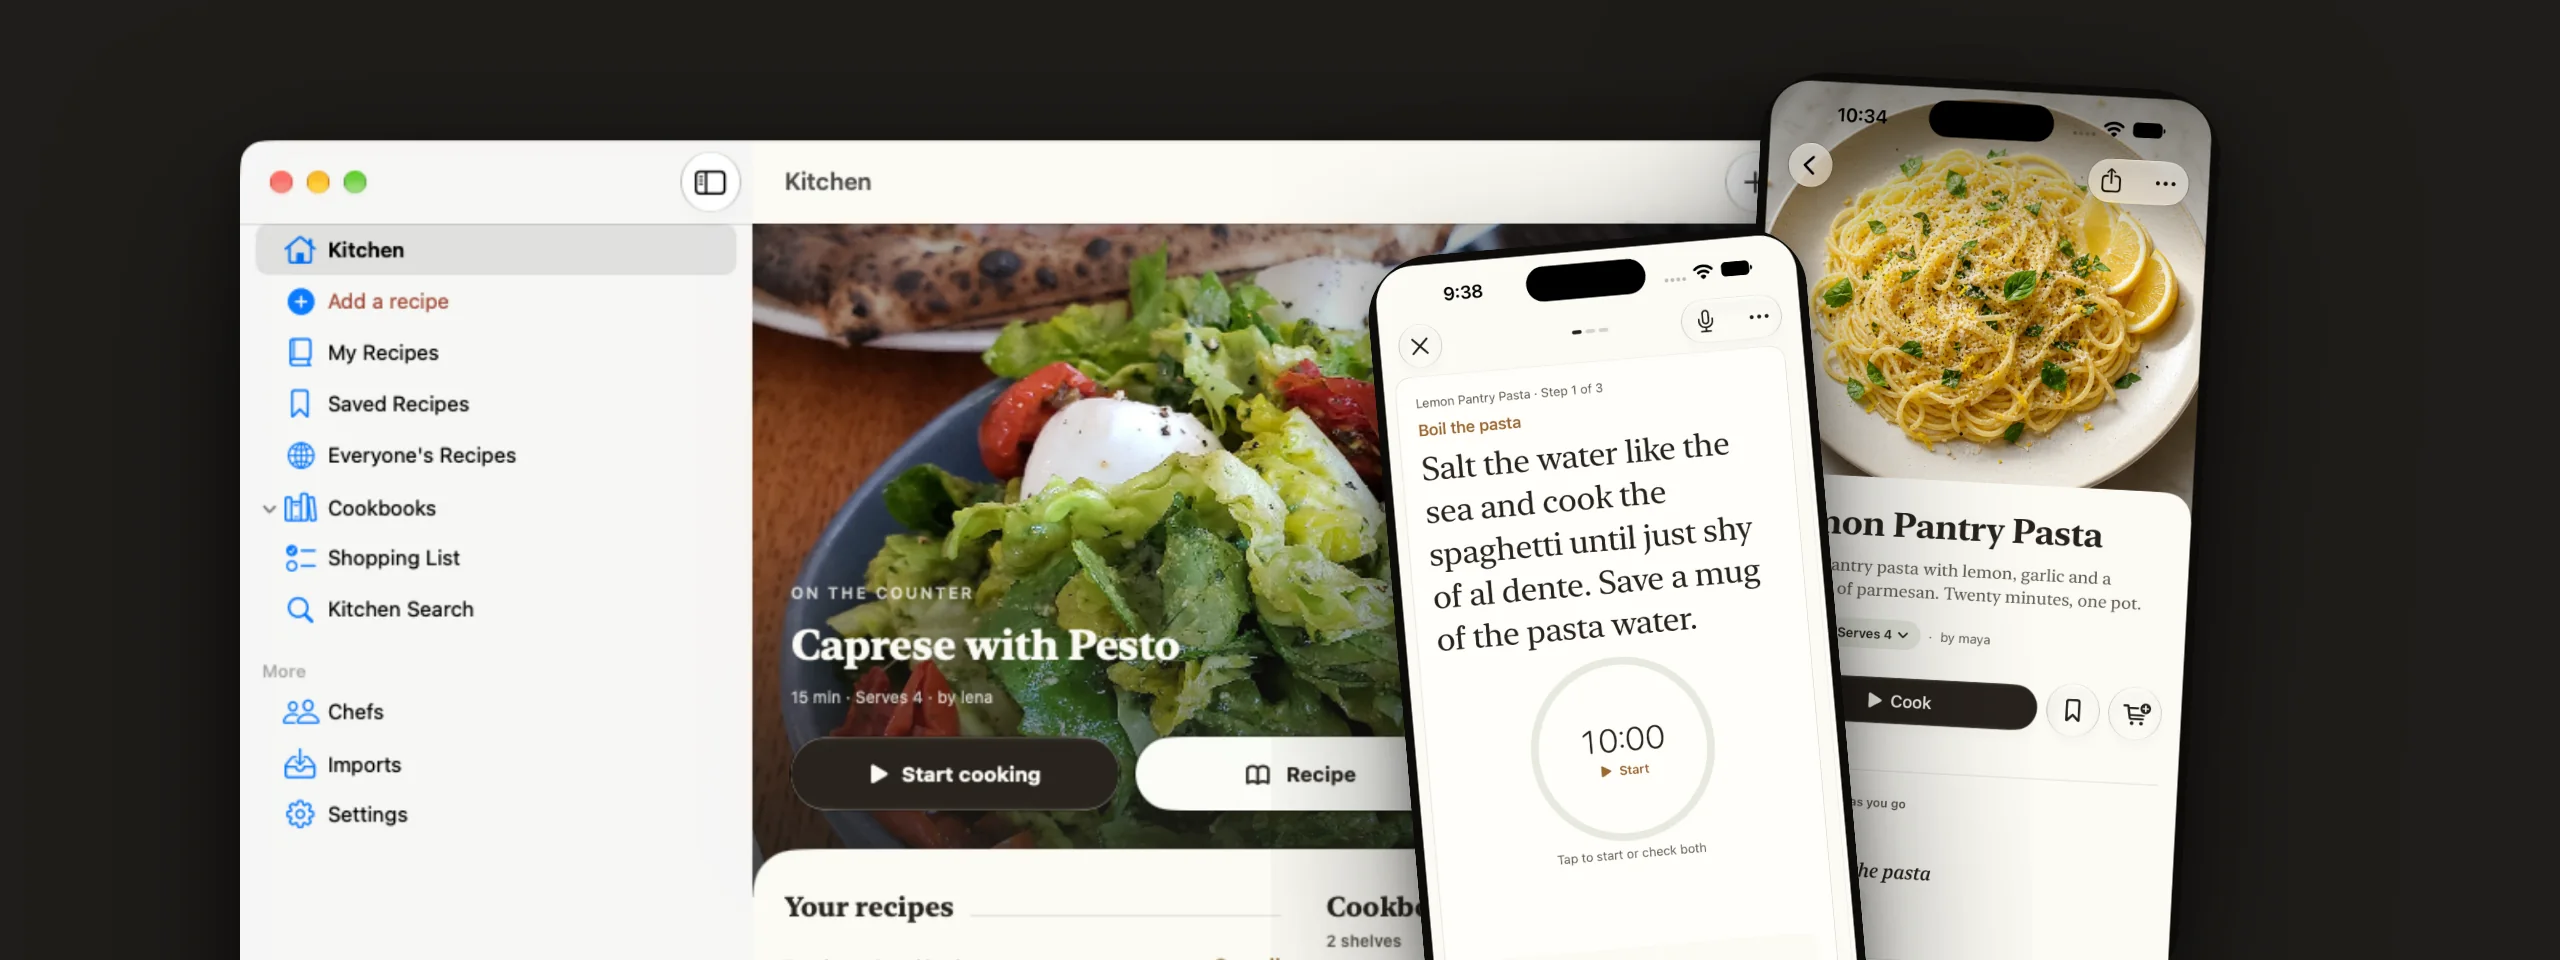
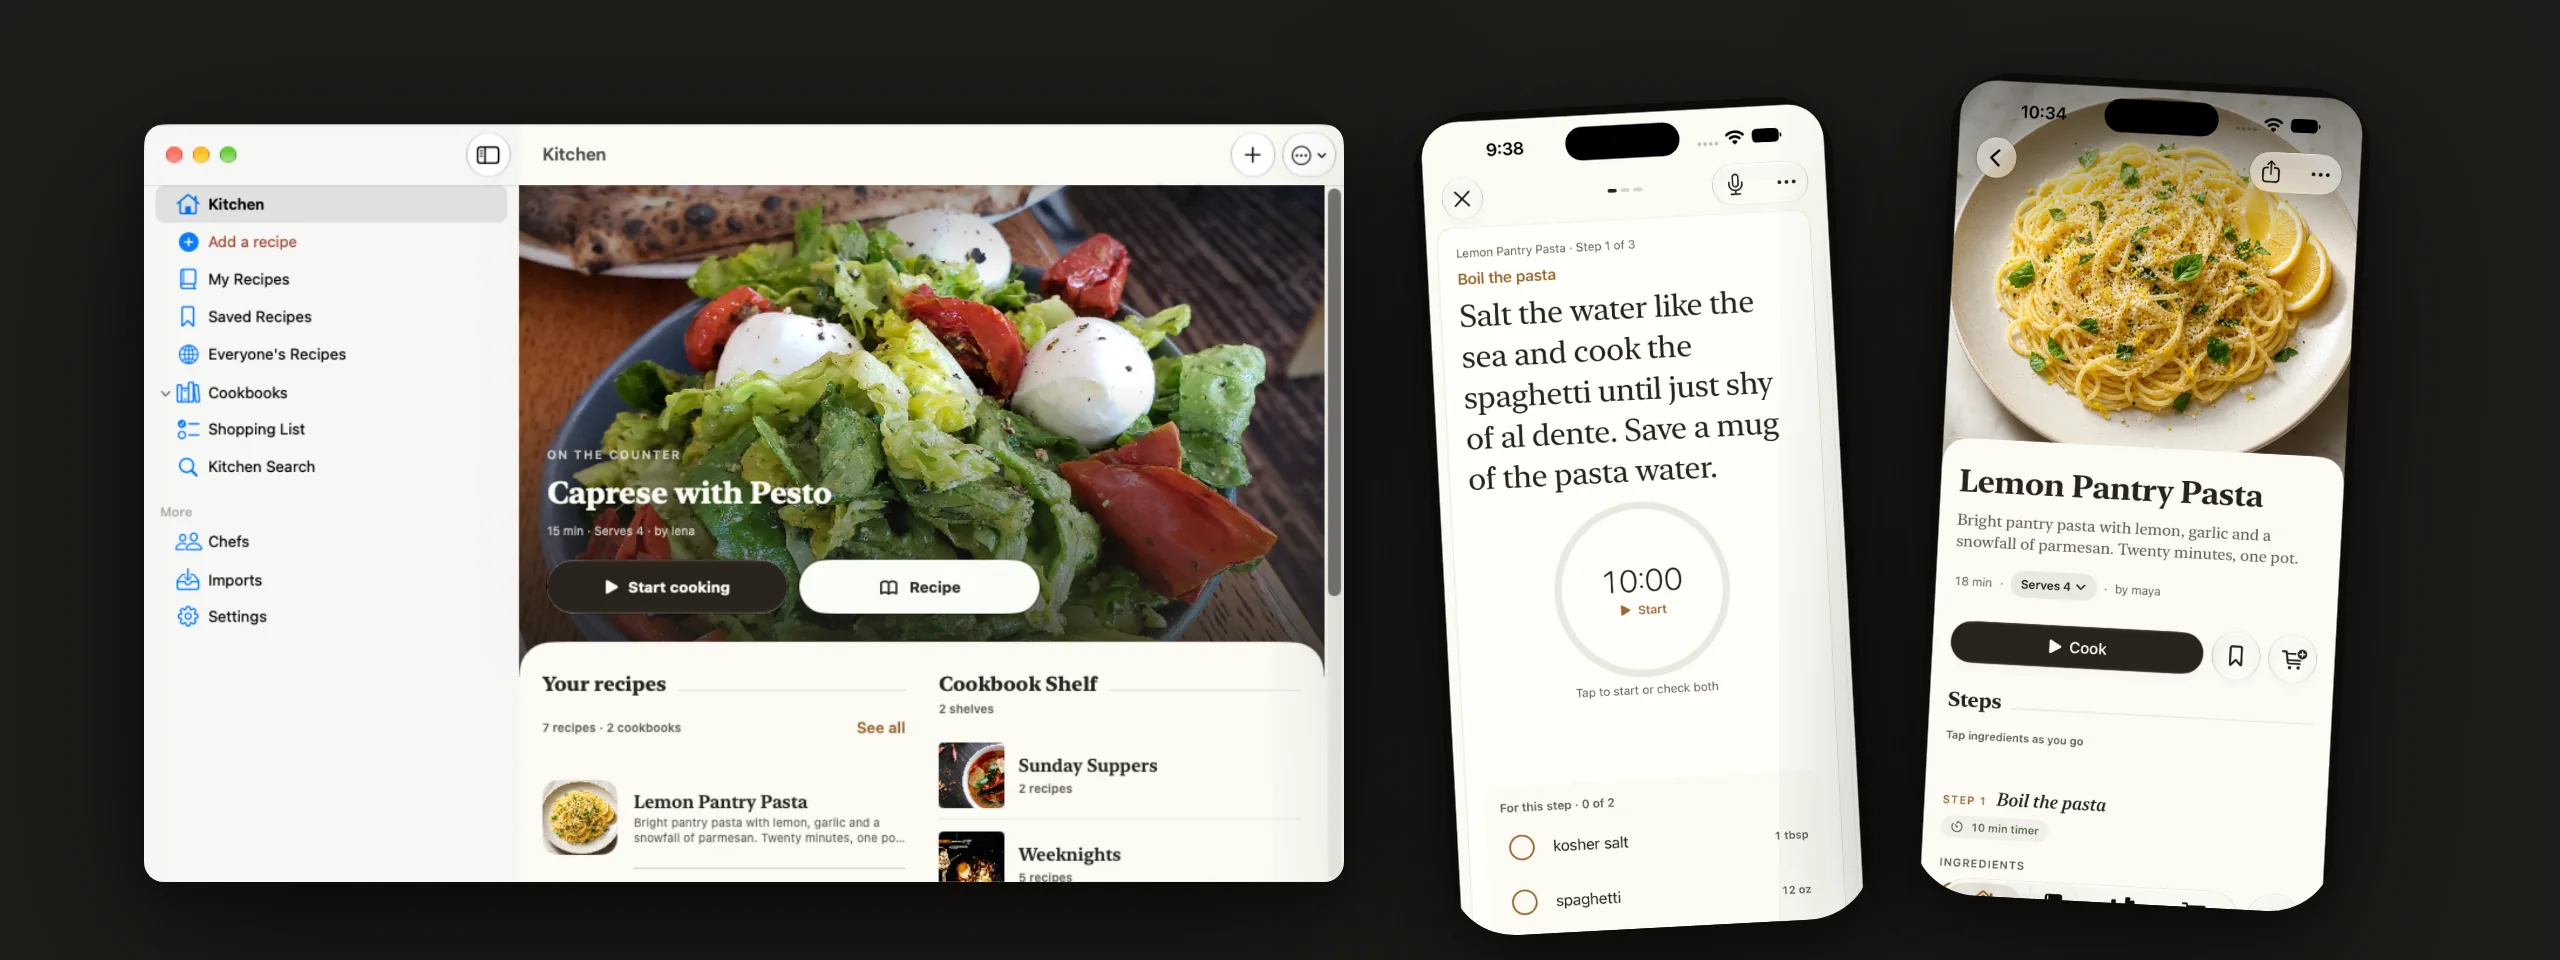
Apple header: Mac and two iPhones side by side, so no screen covers another

diff --git a/brand/tools/compose.html b/brand/tools/compose.html
@@ -91,9 +91,9 @@ const A = {
   `,
   // Apple: the Mac window, an iPhone in front.
   apple: () => `
-    <div class="window shadow" style="left:120px;top:70px;width:820px;border-radius:12px"><img src="mac-kitchen.png" style="width:820px"></div>
-    ${phone("phone-02-recipe.png", 870, 40, 230, 3, 2)}
-    ${phone("phone-01-cook.png", 700, 120, 220, -5, 3)}
+    <div class="window shadow" style="left:72px;top:62px;width:600px;border-radius:10px"><img src="mac-kitchen.png" style="width:600px"></div>
+    ${phone("phone-01-cook.png", 716, 52, 210, -3, 2)}
+    ${phone("phone-02-recipe.png", 966, 40, 210, 3, 2)}
   `,
   // RedwoodJS dbAuth OAuth: the key photo on the right, paper and the mark on the left.
   oauth: () => still("oauth-key.png"),

diff --git a/profile/README.md b/profile/README.md
@@ -15,7 +15,7 @@
 
 **[spoonjoy-v2](https://github.com/spoonjoy/spoonjoy-v2)**: the web app, its API and its MCP server, on Cloudflare.
 
-<a href="https://github.com/spoonjoy/spoonjoy-apple"><picture><source media="(prefers-color-scheme: dark)" srcset="https://raw.githubusercontent.com/spoonjoy/.github/main/brand/headers/spoonjoy-apple-dark.webp"><img src="https://raw.githubusercontent.com/spoonjoy/.github/main/brand/headers/spoonjoy-apple-light.webp" alt="Spoonjoy on a Mac showing the kitchen, with two iPhones in front: one on the Lemon Pantry Pasta recipe, one in cook mode with a ten-minute timer" width="100%"></picture></a>
+<a href="https://github.com/spoonjoy/spoonjoy-apple"><picture><source media="(prefers-color-scheme: dark)" srcset="https://raw.githubusercontent.com/spoonjoy/.github/main/brand/headers/spoonjoy-apple-dark.webp"><img src="https://raw.githubusercontent.com/spoonjoy/.github/main/brand/headers/spoonjoy-apple-light.webp" alt="Spoonjoy on a Mac showing the kitchen, beside two iPhones: one in cook mode with a ten-minute timer, one on the Lemon Pantry Pasta recipe" width="100%"></picture></a>
 
 **[spoonjoy-apple](https://github.com/spoonjoy/spoonjoy-apple)**: the iPhone, iPad and Mac app, in SwiftUI. In internal TestFlight; not on the App Store yet.
 
